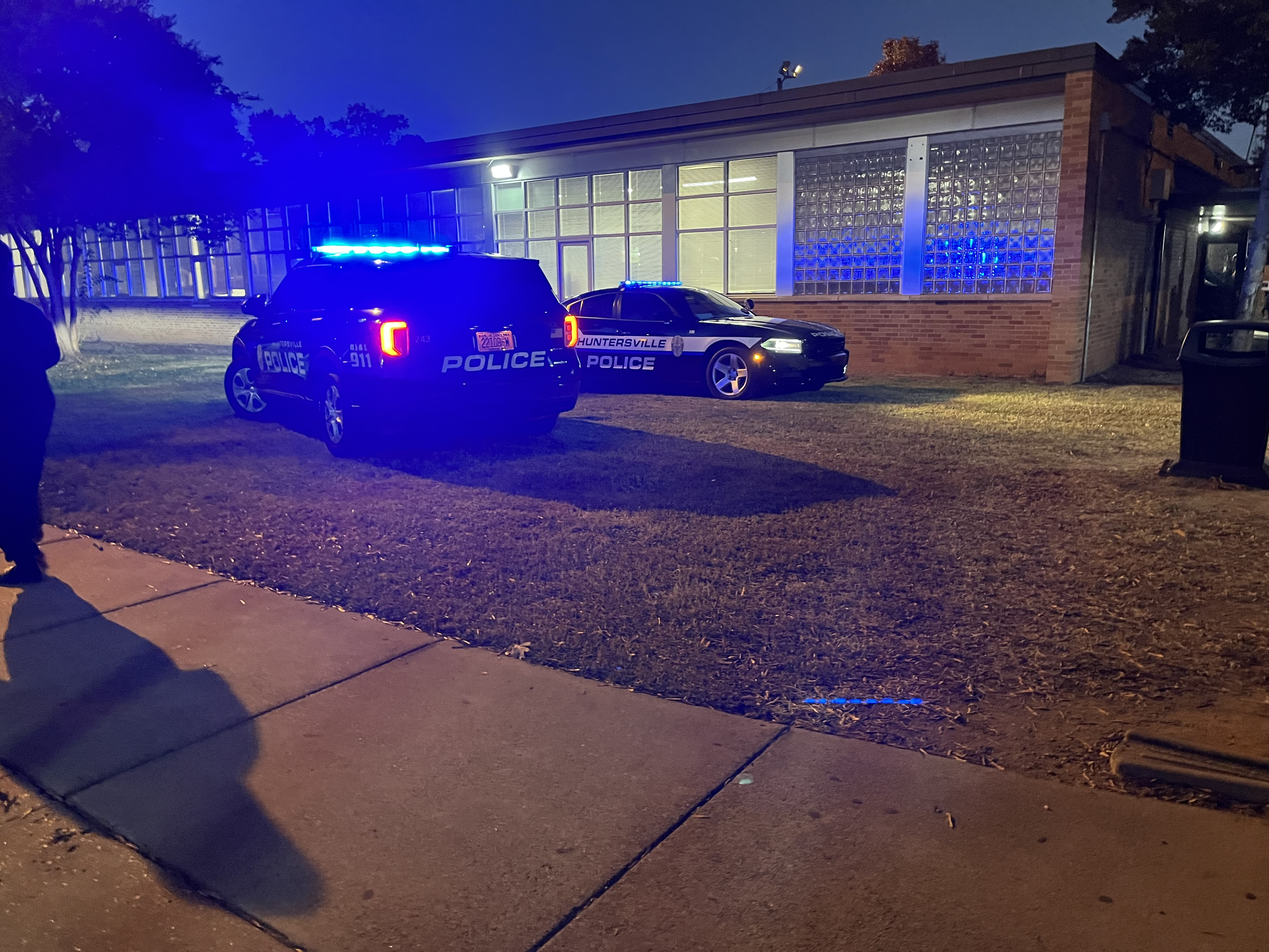
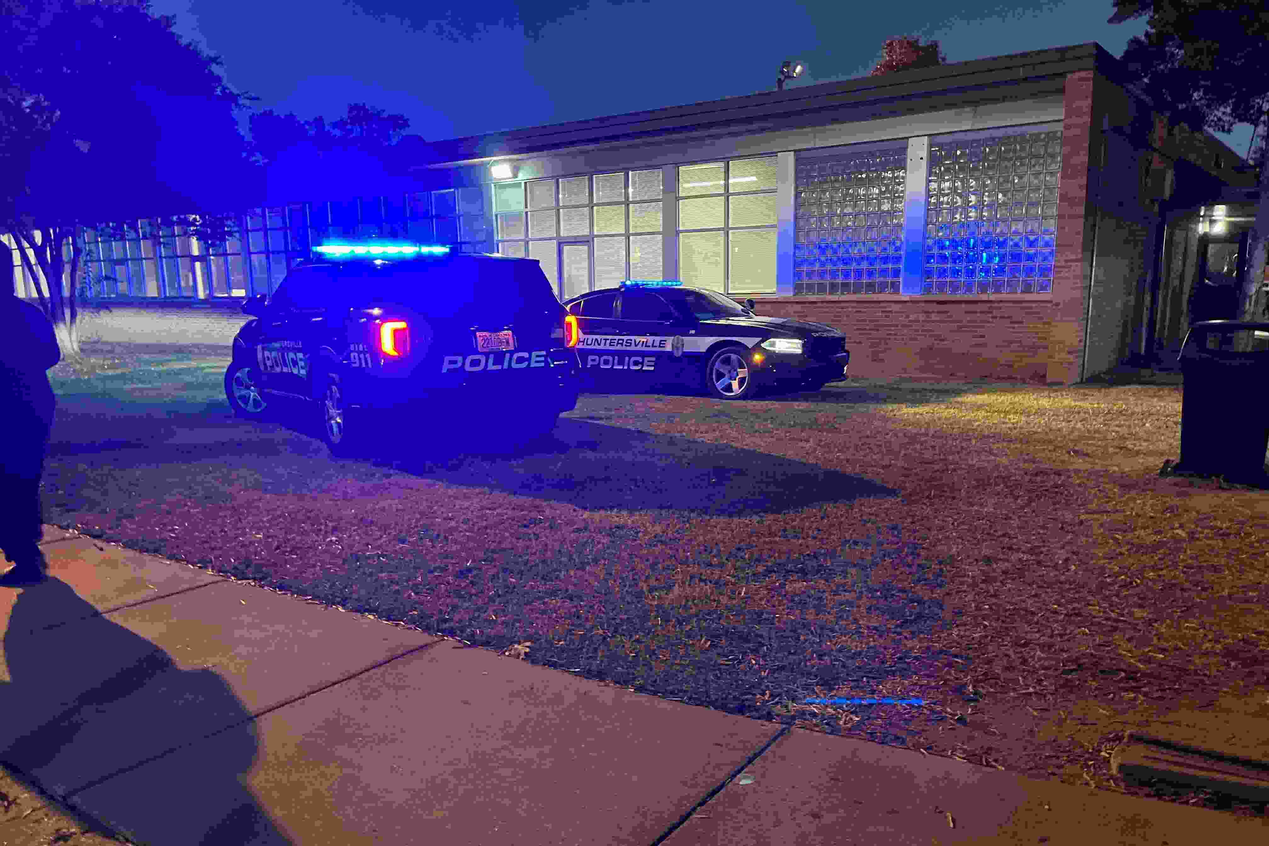
compressed image

diff --git a/article/news/security.html b/article/news/security.html
@@ -18,7 +18,7 @@
   <section class="article">
     <h2>NMHS Boosts Security As Threats Arise</h2>
     <br/>
-    <img src="/assets/security.png" />
+    <img src="/assets/security.jpg" />
     <p id="by">by Isaac Barsoum <span class="tag news">news</span></p>
     <div class="article-body">
 <p>Principal Hood and the North Mecklenburg High School administration have taken steps this year to improve school security and safety as threats of violence on campus have emerged from the surrounding community.</p>

diff --git a/index.html b/index.html
@@ -95,7 +95,7 @@
 
                 <td>
                   <a href="/article/news/security.html">
-                  <img src="/assets/security.png" style="height:200px;">
+                  <img src="/assets/security.jpg" style="height:200px;">
                   <h2>NMHS Boosts Security As Threats Arise</h2>
                   <small class="tag homepagetag news">news</small>
                   <p>by Isaac Barsoum</p>
